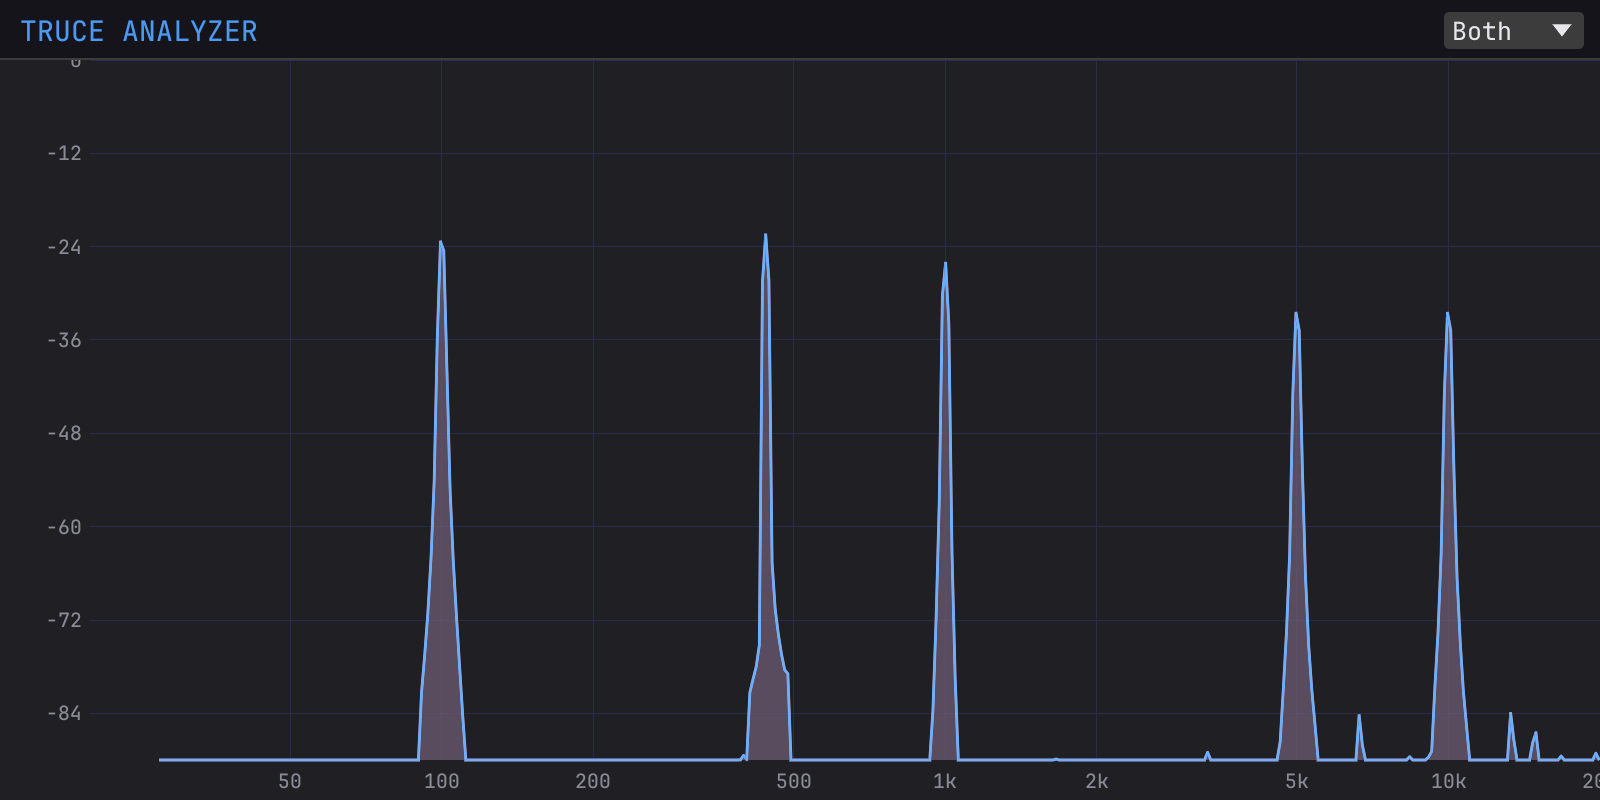
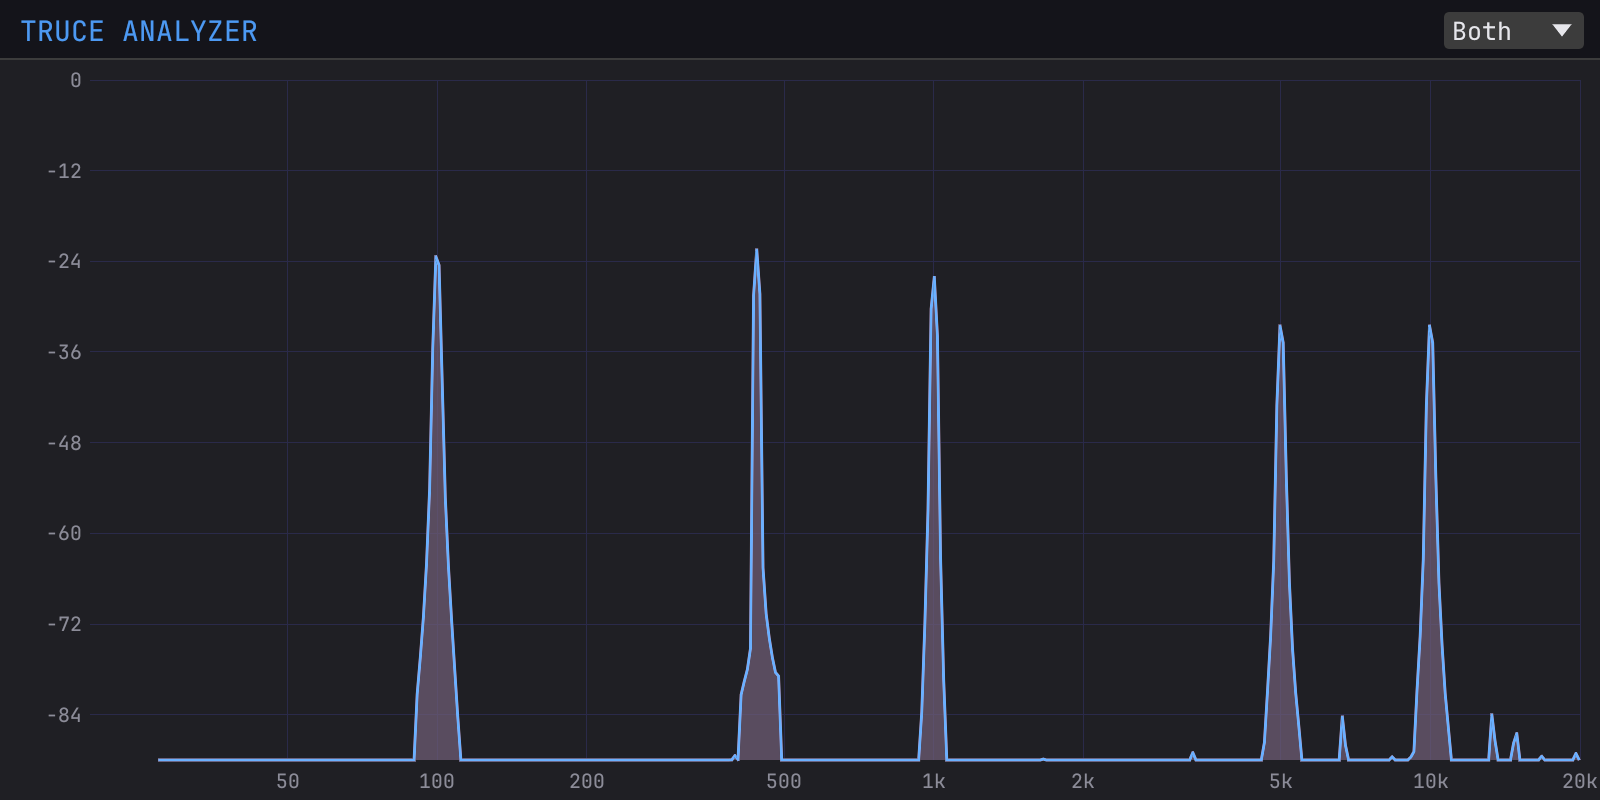
GUI tweaks

diff --git a/src/lib.rs b/src/lib.rs
@@ -148,6 +148,8 @@ truce::plugin! {
 // ---------------------------------------------------------------------------
 
 const LEFT_MARGIN: f32 = 45.0;
+const TOP_MARGIN: f32 = 10.0;
+const RIGHT_MARGIN: f32 = 10.0;
 const BOTTOM_MARGIN: f32 = 20.0;
 
 use truce_egui::theme;
@@ -206,8 +208,8 @@ fn analyzer_ui(
             let rect = response.rect;
 
             let spec = egui::Rect::from_min_max(
-                egui::pos2(rect.left() + LEFT_MARGIN, rect.top()),
-                egui::pos2(rect.right(), rect.bottom() - BOTTOM_MARGIN),
+                egui::pos2(rect.left() + LEFT_MARGIN, rect.top() + TOP_MARGIN),
+                egui::pos2(rect.right() - RIGHT_MARGIN, rect.bottom() - BOTTOM_MARGIN),
             );
 
             draw_grid(&painter, spec);
